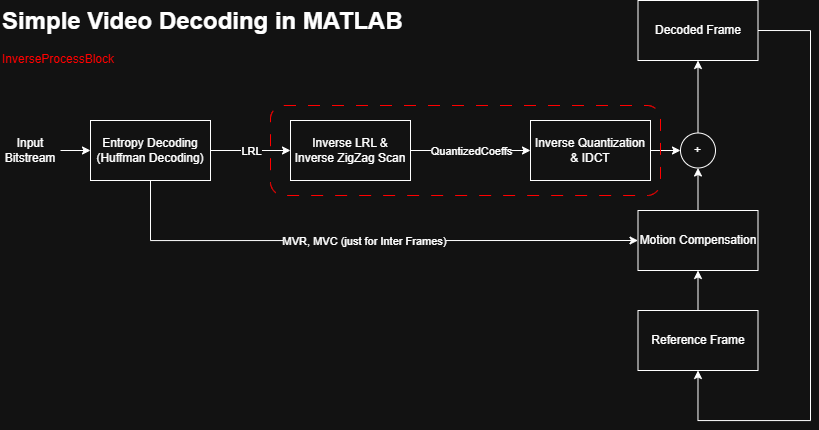
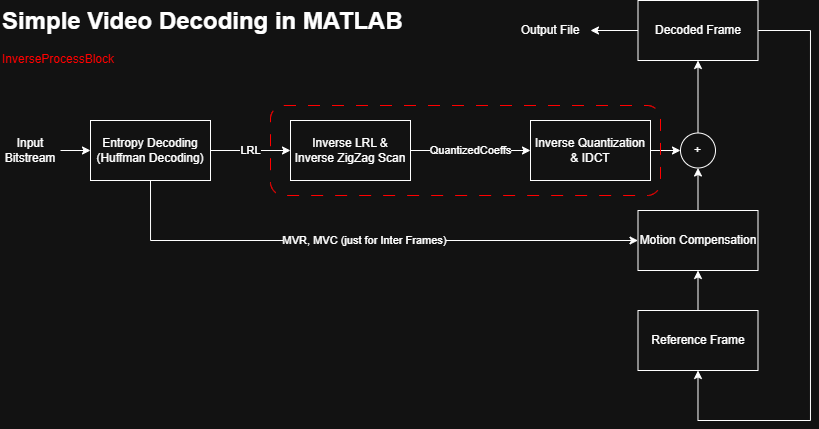
Readme Edit

diff --git a/README.md b/README.md
@@ -7,7 +7,7 @@ The codec currently operates on raw YUV video files (specifically the QCIF `176x
 ## System Architecture
 
 ### Encoder Pipeline
-![Encoder Architecture](EncoderBlockDesin.png)
+![Encoder Architecture](EncoderBlockDesing.png)
 
 ### Decoder Pipeline
 ![Decoder Architecture](DecoderBlockDesing.png)
